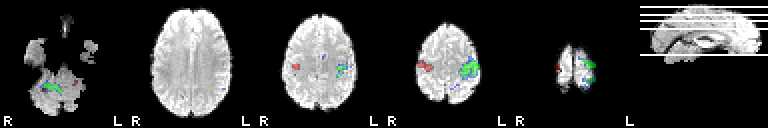
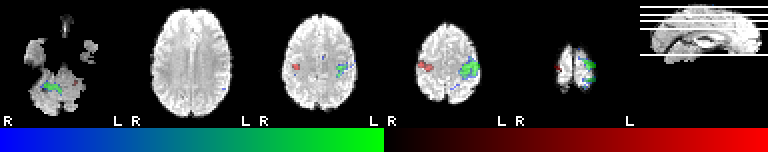
Colorbars, colorbars from zero

diff --git a/README.md b/README.md
@@ -1,6 +1,6 @@
 # Volume to bitmap creation
 
-Starting with niimath version v1.0.20251007, the software can now create 2D bitmap images in the PNG format. This feature provides a lightweight way to visualize NIfTI images directly. This repository includes sample images and scripts to demonstrate these features, as well as providing documentation. You can try these out by downloading this repository:
+Starting with niimath version v1.0.20251023, the software can now create 2D bitmap images in the PNG format. This feature provides a lightweight way to visualize NIfTI images directly. This repository includes sample images and scripts to demonstrate these features, as well as providing documentation. You can try these out by downloading this repository:
 
 ```
 git clone https://github.com/rordenlab/niimath-bitmap
@@ -26,13 +26,21 @@ niimath T1 -bitmap -y 0.33 0.66 -z 0.33 0.66 -X 0.5 -c viridis cross.png
 
 ![cross](./png/cross.png)
 
-The `-N` allows you to also show a negative colormap. Note we can set the thresholds for the image with `-t` for the background image and `-T` for the overlay. Here we show t-scores that exceed 4 in red, and those less than -4 in blue-green. We also scale the image by a factor of 2 (`-s 2`) with nearest-neighbor interpolation (`-n`).
+The `-N` allows you to also show a negative colormap. Note we can set the thresholds for the image with `-t` for the background image and `-T` for the overlay. Here we show t-scores that exceed 4 in red, and those less than -4 in blue-green. We also scale the image by a factor of 2 (`-s 2`) with nearest-neighbor interpolation (`-n`). It also shows a 12-pixel high color gradient (`-g 12`).
 
 ```
-niimath fslmean -bitmap fslt -T 4 7 -N -z 0.22 0.6 0.7 0.8 0.9 -X 0.5 -s 2 -n tscores.png
+niimath fslmean -bitmap fslt -T 4 7 -N -z 0.22 0.6 0.7 0.8 0.9 -X 0.5 -s 2 -g 12 -n tscores.png
 ```
 
 ![t-scores](./png/tscores.png)
+
+With the default scaling, overlay values between the thresholds (e.g., 4–7) use the full colormap range. In the example above, voxels near 4 appear black and those near 7 bright red. Adding the jump flag (`-j`) maps colors from 0 to the upper threshold, so although voxels below 4 remain transparent, those just above 4 start as dark red. The colorbar thus spans 0–7 rather than 4–7.
+
+```
+niimath fslmean -bitmap fslt -T 4 7 -N -z 0.22 0.6 0.7 0.8 0.9 -X 0.5 -s 2 -g 12 -n -j jscores.png
+```
+
+![t-scores with jump](./png/jscores.png)
 
 By default, niimath bitmaps are shown in radiological orientation, similar to FSL's slicer tool. You can flip the left-right dimension to radiological orientation using the `-f` option. Also like fsl's slicer, you can use `-a` (all) as a shortcut for `-x 0.5 -y 0.5 -z 0.5`. 
 
@@ -100,8 +108,10 @@ These options build a tiled layout of slices (sagittal/coronal/axial).
 
 These are image-wide and may appear anywhere in the `-bitmap` argument list.
 
+- `-g <pixels>` : show colorbar gradient at the bottom with specified height.
 - `-f [0|1]` : radiological orientation (default `1`). If omitted the shorthand `-f` sets to `0` (neurological).  
   `isRadiological = 1` means radiological (left appears on image right).
+- `-j` : Jump overlay colorbar range, so color is 0..max for threshold min..max.
 - `-u [0|1]` : draw left/right labels (default `1`). Omit argument to set to `0`.
 - `-n [0|1]` : interpolation order: `0 = nearest`, `1 = linear` (default `1`). If alone, `-n` sets `0`.
 - `-N [0|1]` : turn negative colormap on or off.
@@ -159,3 +169,5 @@ This README documents behavior of the `niimath` `-bitmap` exporter implemented b
  [nii2png](https://github.com/alexlaurence/NIfTI-Image-Converter).
 - [FSL](https://fsl.fmrib.ox.ac.uk/fsl/docs/)  includes a utility `slicer` for generating images.
 - [med2image](https://github.com/FNNDSC/med2image) is a Python script for generating PNG/JPG bitmaps from DICOM/NIfTI volumes.
+- FreeSurfer can generate images, albeit this briefly loads the graphical interface so it is slow and does not support headless usage. For example `freeview -v T1.nii.gz -viewport axial -slice 0 0 20 -ss slice_axial.png`
+- [chauffeur_afni](https://afni.nimh.nih.gov/pub/dist/doc/htmldoc/tutorials/auto_image/auto_%40chauffeur_afni.html) provides powerful commands for creating bitmaps.
